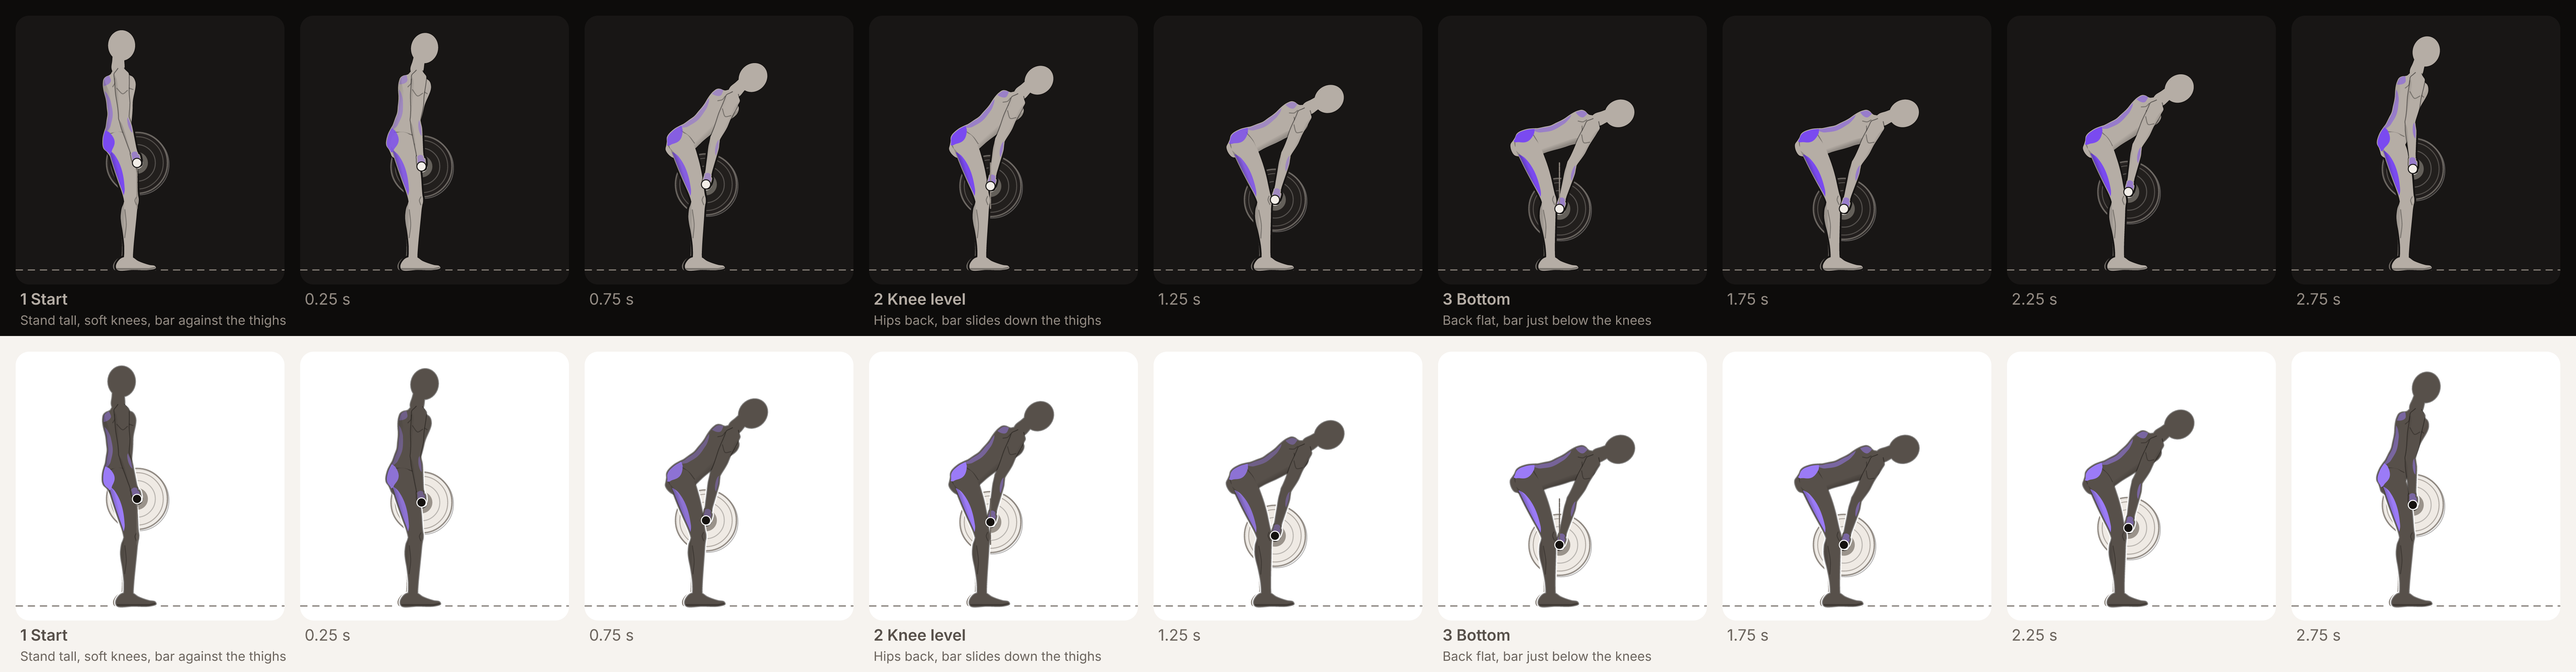
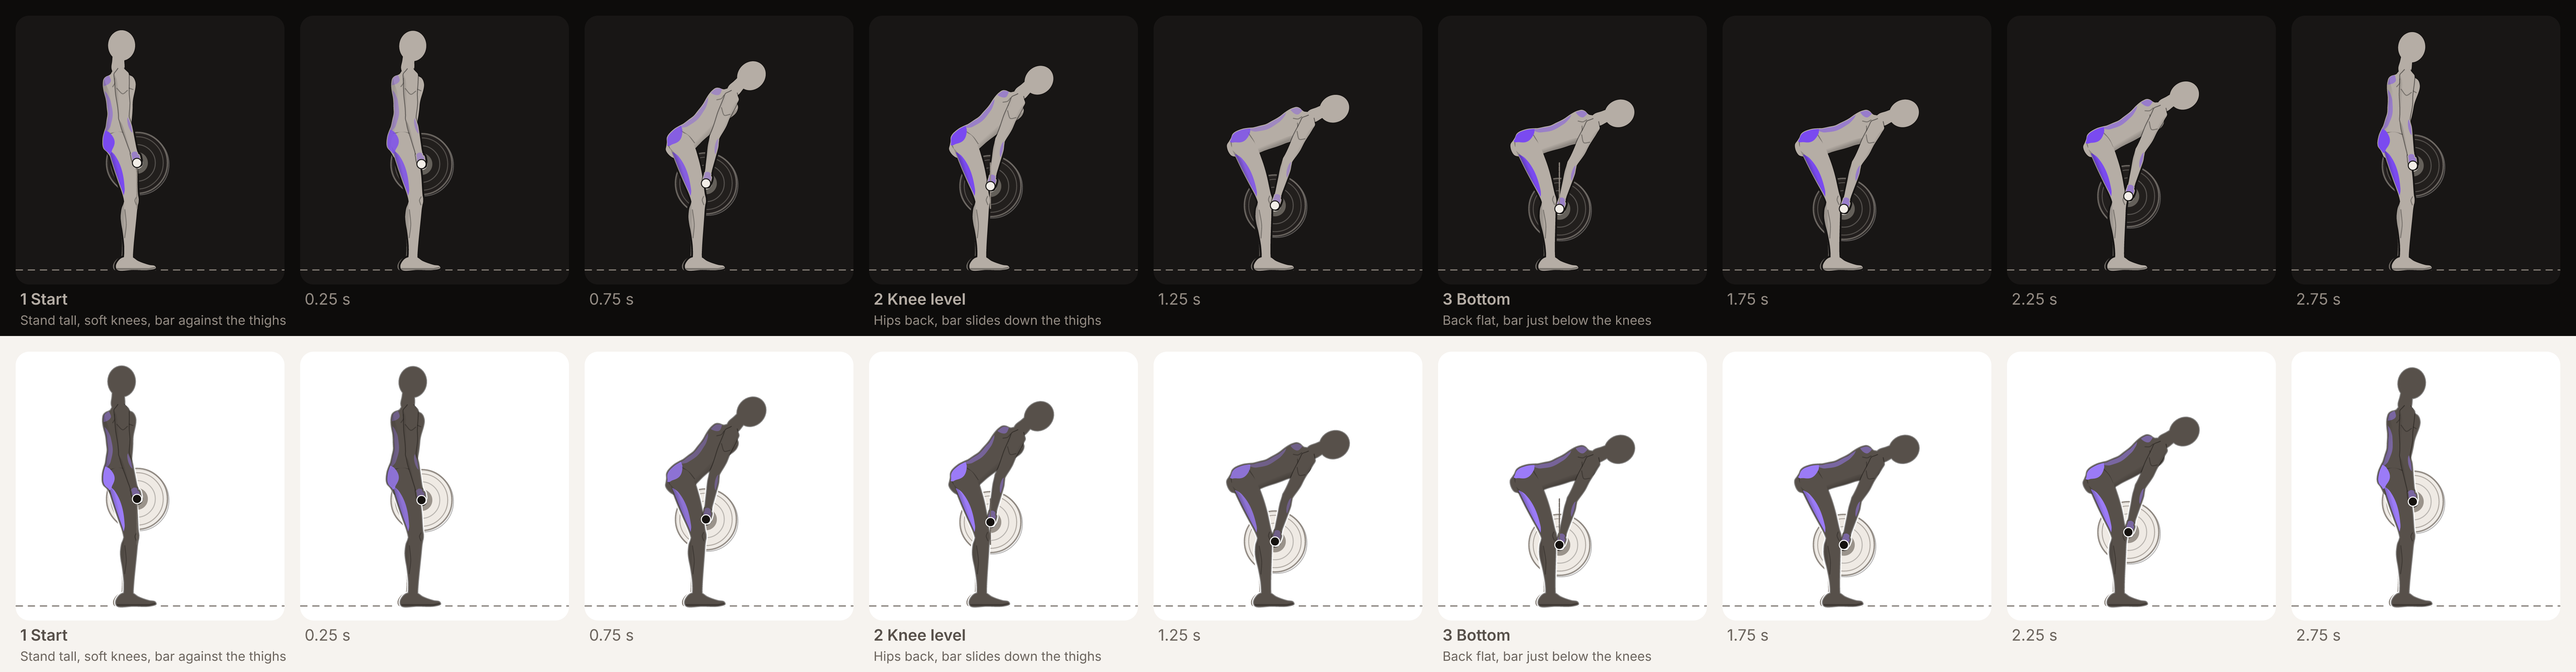
Guides: Romanian deadlift on the hang anchor, one smooth hinge (phase timing)
- The bar uses the `hang` anchor ({ x: 0.035, elbowDeg: 13 }, today's key
  elbows) instead of keyframed positions, so the arms hang still: elbow
  reversal 5.3 -> 0.2 deg, bar drift 0.
- `motion: "phases"` with Knee level and two unlabelled helper keys as
  pass keys. The plan said to delete the helpers; without them the bar
  starts too slowly (mid-phase stall 24%: the bar drops with 1 - cos of the
  trunk lean while the hips move back with its sine). The helpers are
  re-solved (pelvis 24 -> 22.9 deg, 59 -> 60.9 deg; root x -0.0956 ->
  -0.0856 so it no longer flattens out before Bottom) and re-timed
  (0.1641 / 0.268 / 0.3489, ascent 0.7383 / 0.7989 / 0.8769). Labelled
  poses, captions, the hold and the work phase are unchanged.
- motion.test.ts: the arm-wobble test builds its "before" fixture by
  keyframing the bar at the hang positions (the committed guide now hangs).

guide:motion (HEAD -> now): 8 failing -> 0. Bar speed humps 2 -> 1; hip
mid-phase stall 17.7% -> 36.1%; ease out of stops 19.0% / 35.9% -> 1.0% /
3.9%; acceleration jump 100.7% -> 0.5%; frame step 2.69x -> 1.32x.

Claude-Session: https://claude.ai/code/session_01WQGwPu3Uq9qS169xjbbsDx

diff --git a/packages/catalogue/test/motion.test.ts b/packages/catalogue/test/motion.test.ts
@@ -462,6 +462,23 @@ describe('phase timing schema rules', () => {
   });
 });
 
+/**
+ * The committed RDL with its bar keyframed separately again (how it was before E4): the bar sits
+ * exactly where the hang anchor puts it at every authored key, and is interpolated on its own in between.
+ */
+function rdlKeyframedBar(): Guide {
+  const raw = JSON.parse(readFileSync(join(GUIDES, 'barbell-romanian-deadlift', 'guide.json'), 'utf8')) as { props: Record<string, unknown>[]; keyframes: { sameAs?: number; props?: Record<string, unknown> }[] };
+  const hanging = prepareGuide(GuideSchema.parse(raw));
+  for (const p of raw.props) if (p.id === 'bar') p.anchor = { kind: 'keyframed' };
+  raw.keyframes.forEach((k, i) => {
+    const key = hanging.keys[i];
+    if (k.sameAs !== undefined || key === undefined) return;
+    const bar = poseAt(hanging, key.t).propPoints.bar;
+    if (bar !== undefined) k.props = { ...k.props, bar: { x: bar.x, y: bar.y } };
+  });
+  return GuideSchema.parse(raw);
+}
+
 /** The committed RDL with its bar on a `hang` anchor (plan §4.4) instead of keyframed positions. */
 function rdlHanging(elbowDeg = 13): Record<string, unknown> {
   const raw = JSON.parse(readFileSync(join(GUIDES, 'barbell-romanian-deadlift', 'guide.json'), 'utf8')) as { props: Record<string, unknown>[]; keyframes: { props?: Record<string, unknown> }[] };
@@ -488,7 +505,7 @@ describe('hang barbell anchor (E4)', () => {
   });
 
   it('removes the arm wobble of a separately keyframed bar', () => {
-    const before = measureMotion(prepareGuide(committed('barbell-romanian-deadlift')), { n: 600 }).metrics.find((m) => m.id === 'J2.any');
+    const before = measureMotion(prepareGuide(rdlKeyframedBar()), { n: 600 }).metrics.find((m) => m.id === 'J2.any');
     const after = measureMotion(prepareGuide(GuideSchema.parse(rdlHanging())), { n: 600 }).metrics.find((m) => m.id === 'J2.any');
     expect(before?.value ?? 0).toBeGreaterThan(2);
     expect(after?.value ?? 1).toBeLessThan(0.5);
